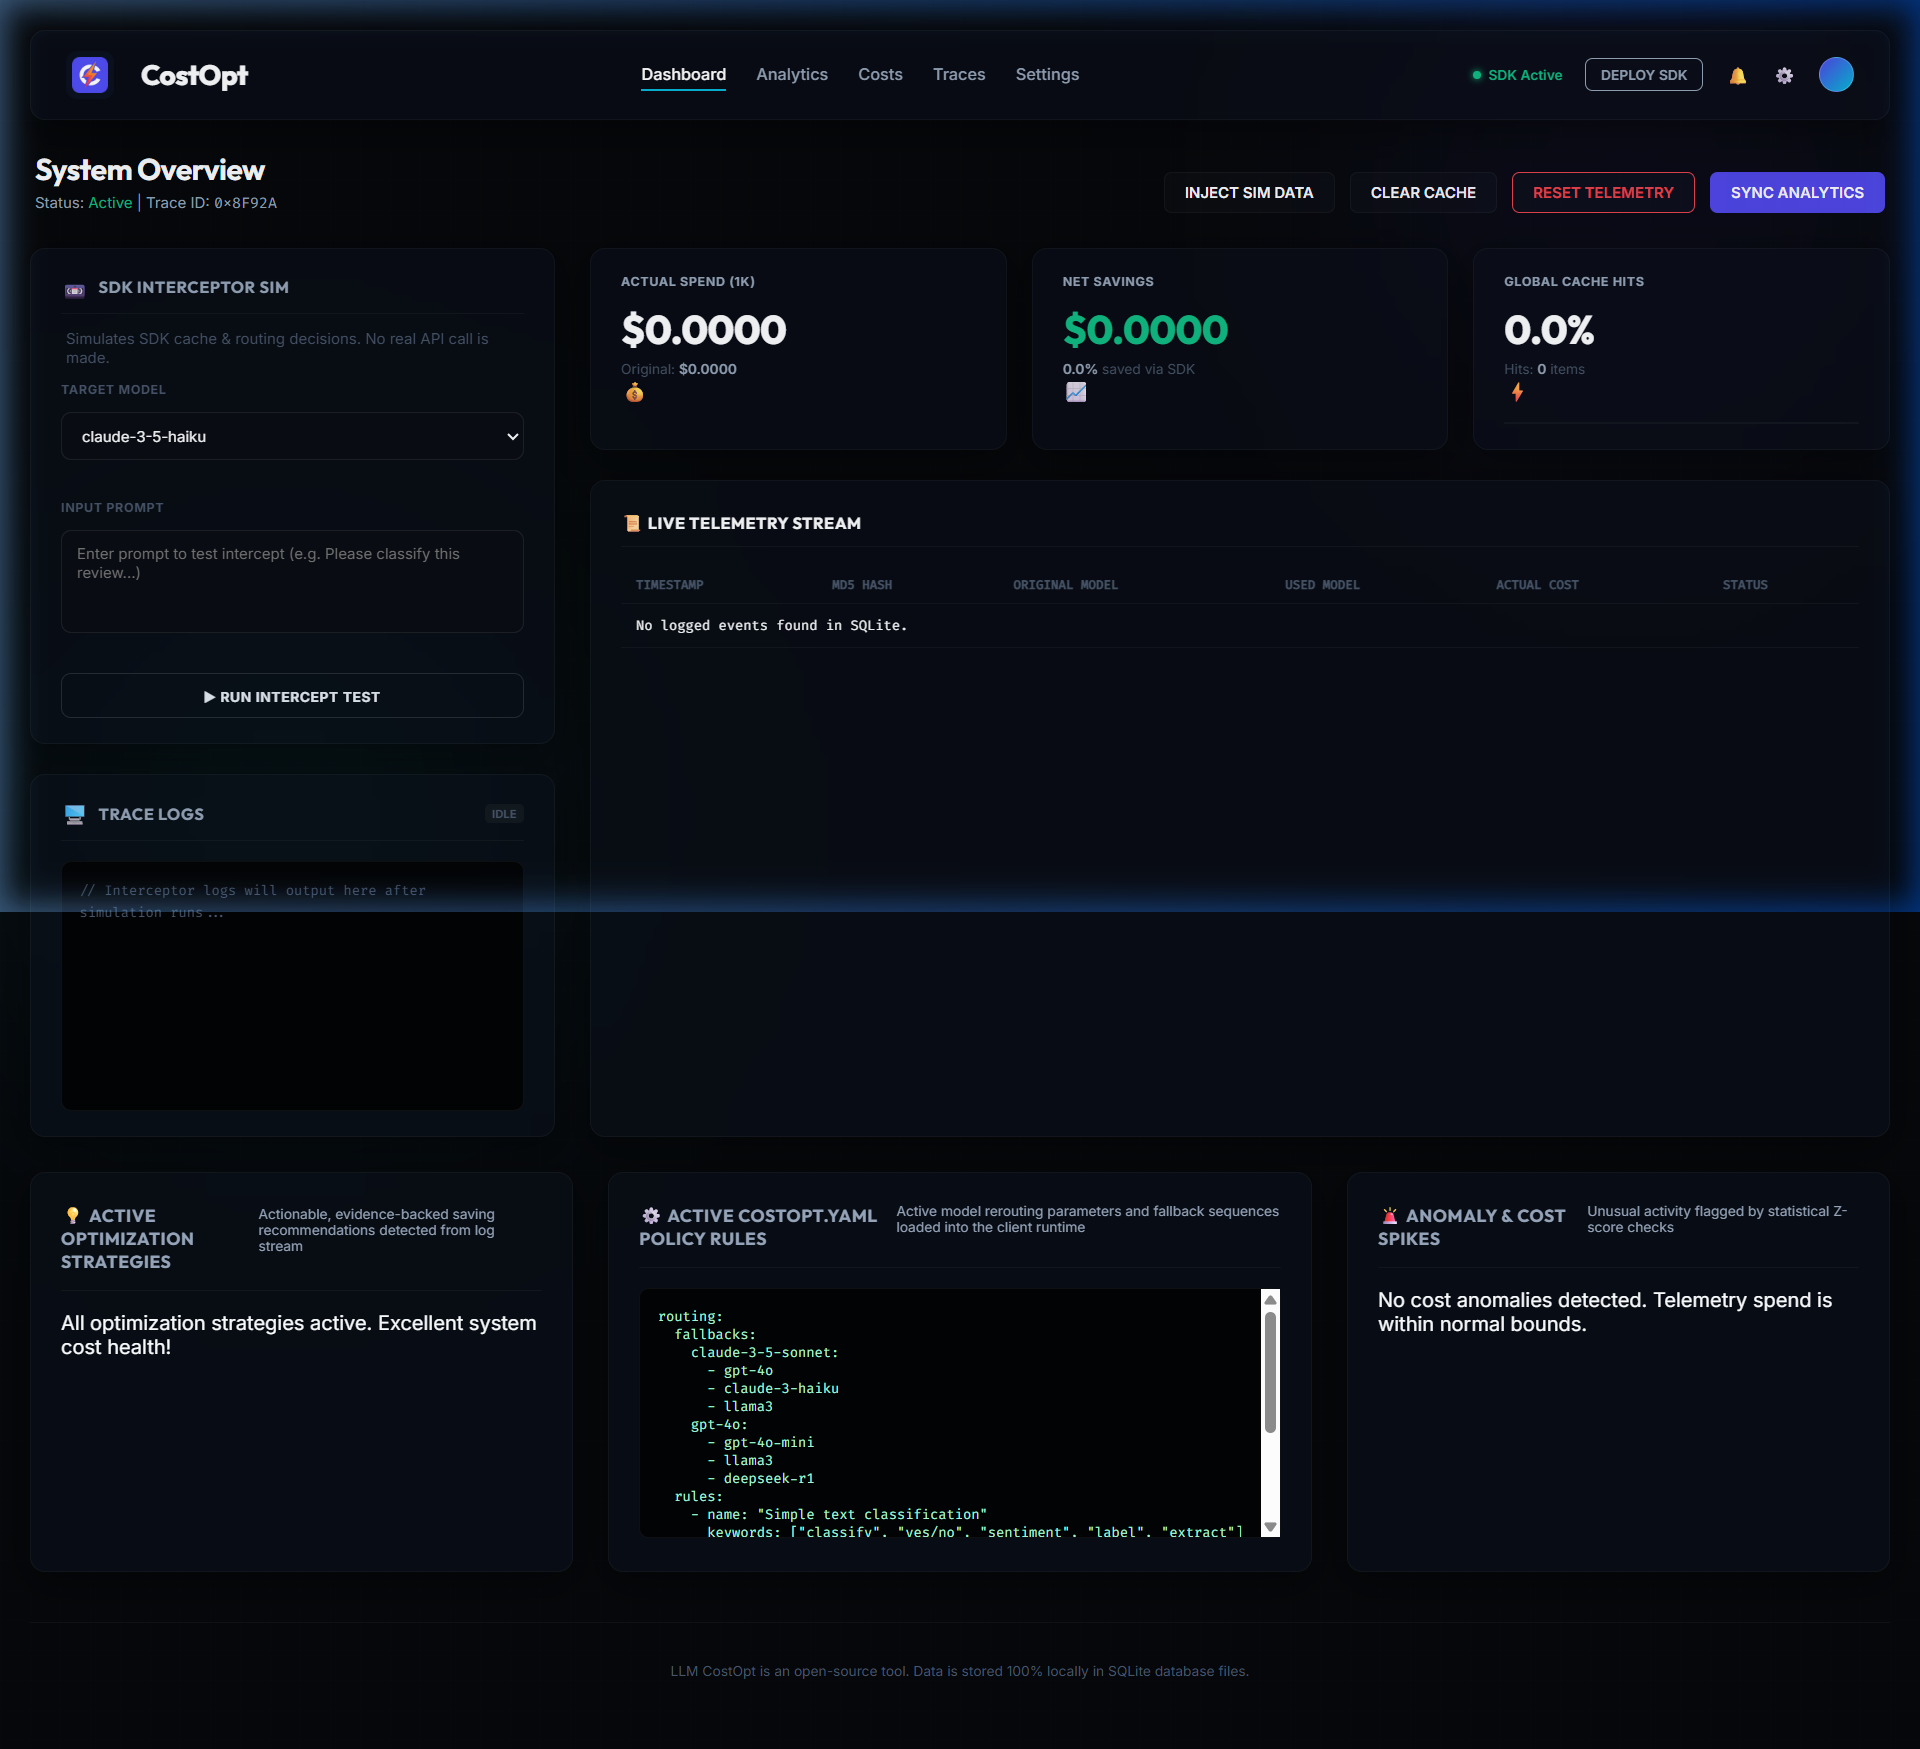
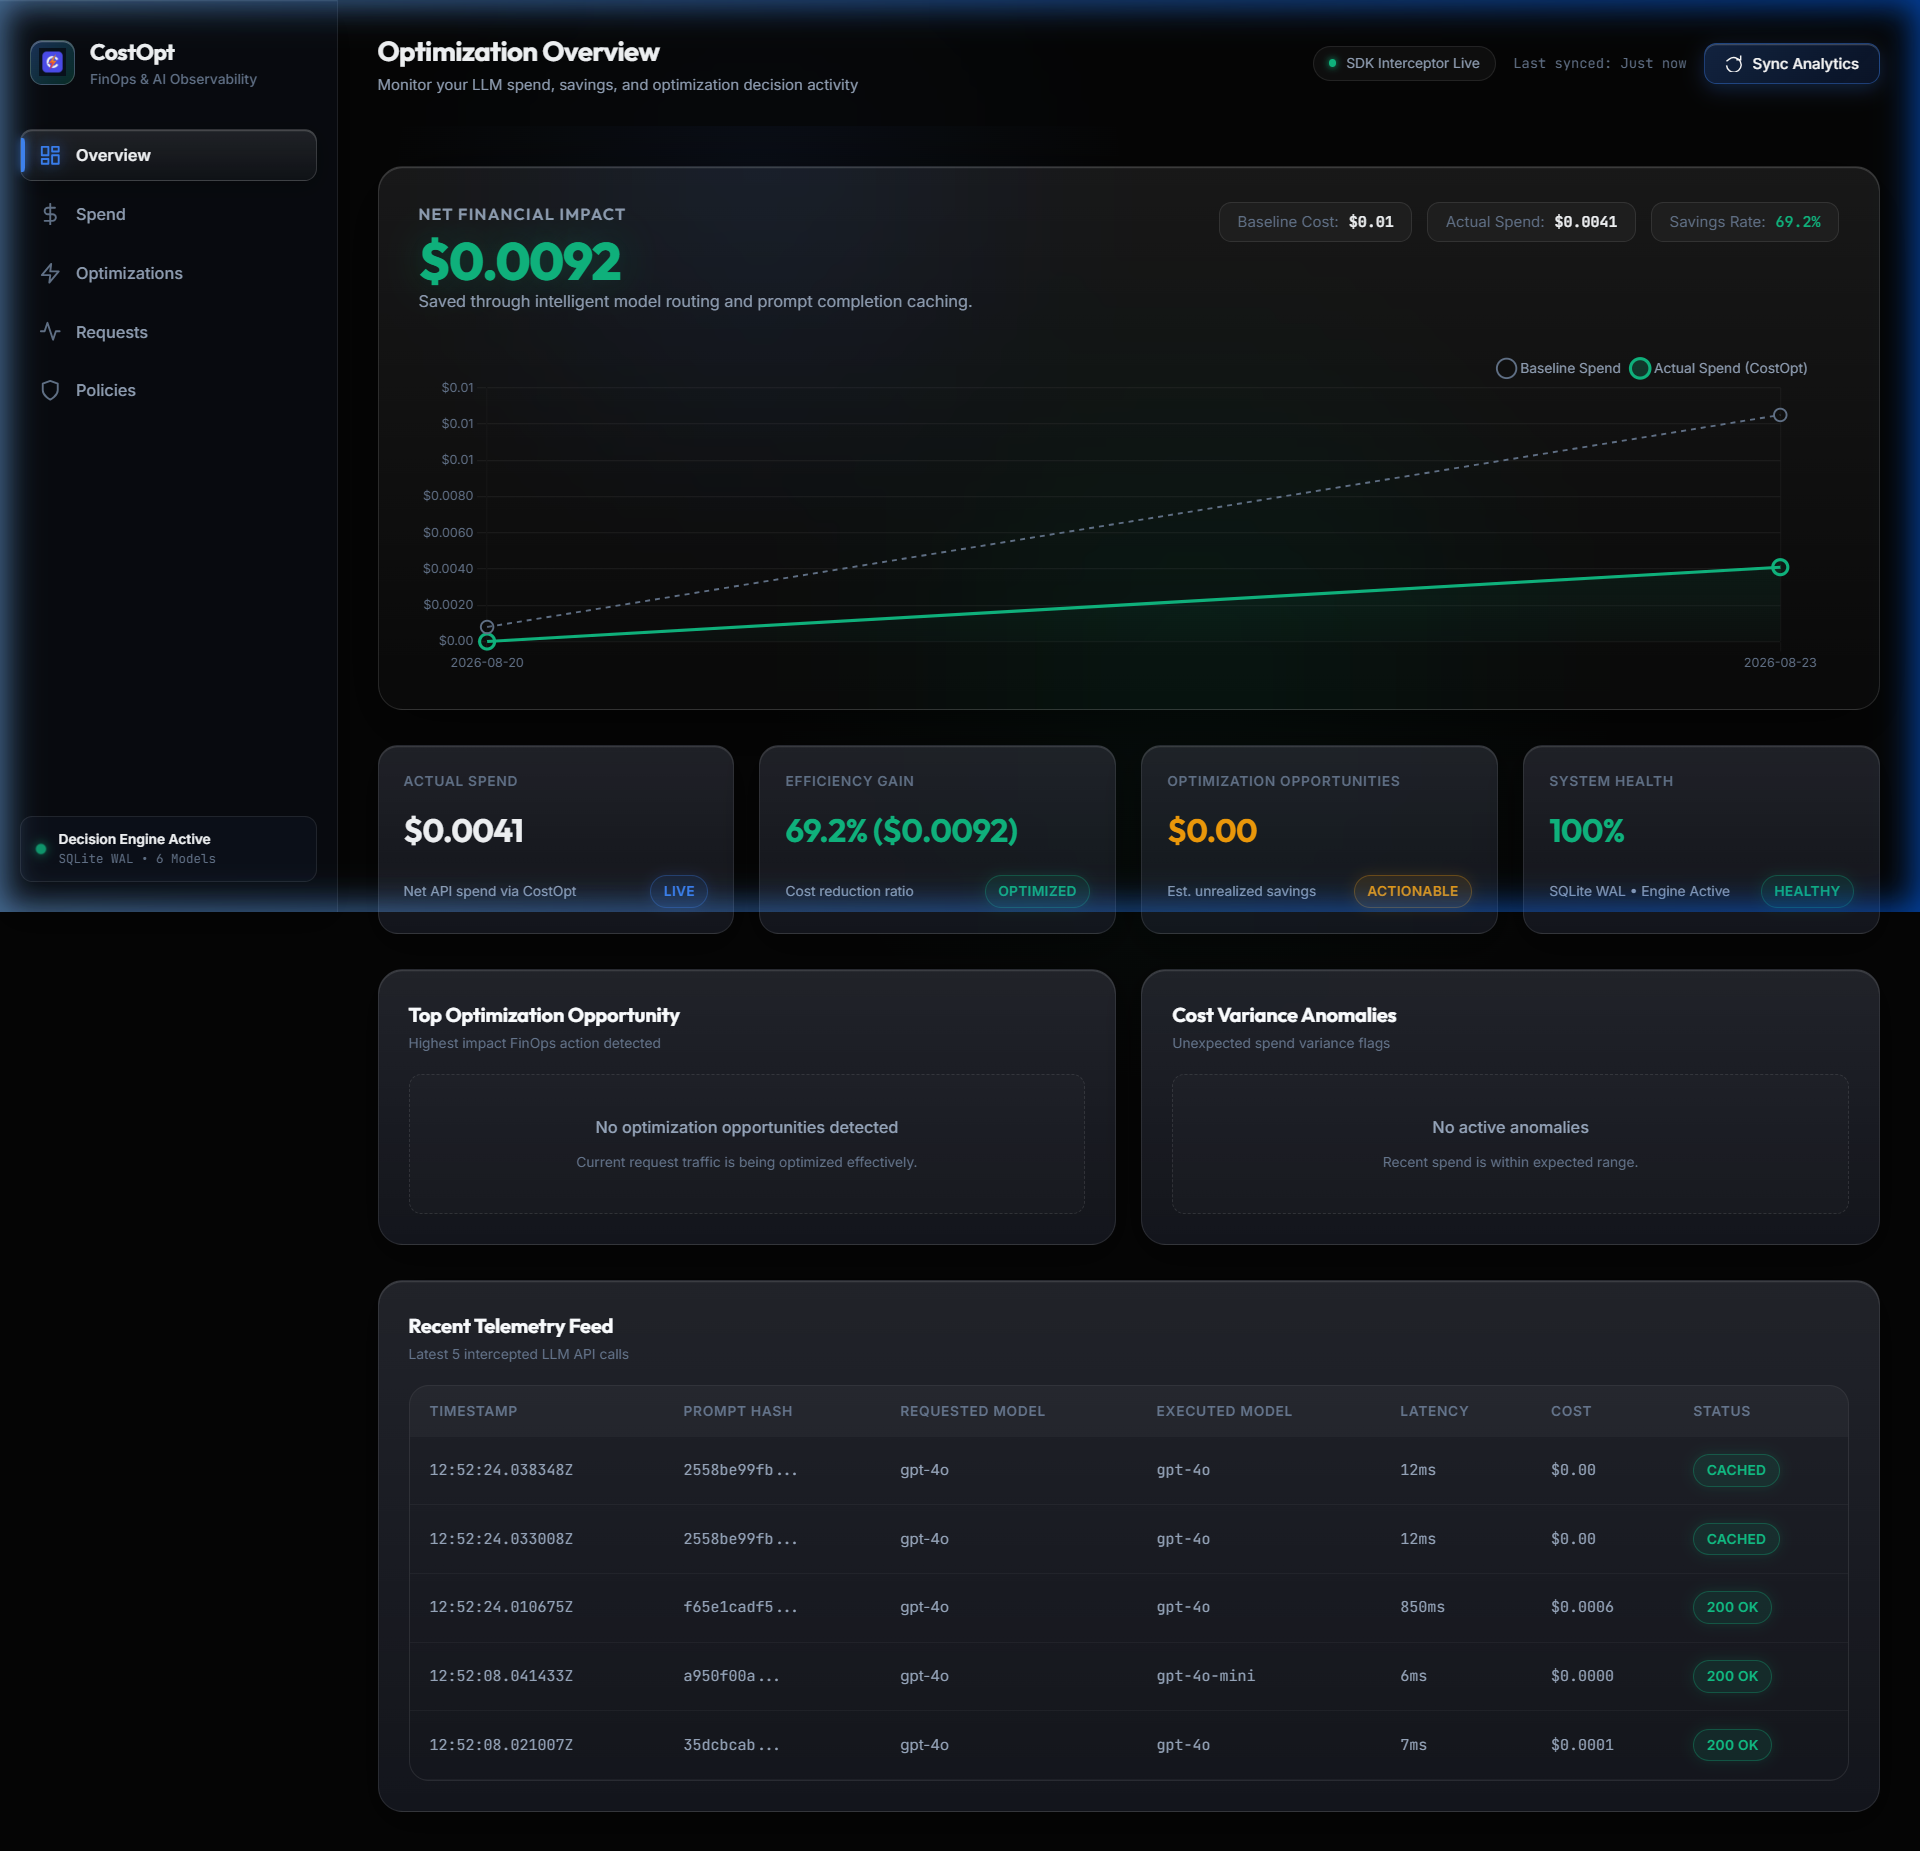
docs: add Zenix Refined Glass dashboard screenshots to README.md

diff --git a/README.md b/README.md
@@ -87,10 +87,15 @@ Every request is evaluated by the centralized `DecisionEngine` and assigned one 
 
 The built-in web console operates on `http://127.0.0.1:8000`, featuring a **Zenix Refined Glass** visual theme (`#050505` canvas, 35px backdrop blur, translucent borders, ambient glows, fixed left sidebar shell, and bento grid layout) across 5 primary navigation tabs:
 
+![CostOpt Zenix Refined Glass Overview](docs/images/dashboard_overview.png)
+
 1. **Overview**: Net Financial Impact Hero Glass Card (`$0.0023` / dynamic savings), smooth Chart.js spend trend area chart, bento metrics grid (Actual Spend, Efficiency Gain, Opportunities, System Health), top recommendation card, and live telemetry feed.
 2. **Spend**: Actual LLM spend hero card with baseline comparison, spend by model/provider bento distribution cards, and sortable model cost breakdown table.
 3. **Optimizations**: Dominant Net Savings hero card, Decision Strategy distribution (`Cache Hits`, `Model Reroutes`, `Direct Execution`), Task Classification breakdown, active optimization engines status cards, and real-time audit activity log.
 4. **Requests**: Request explorer table with prompt search, outcome filter badges (`CACHE HIT`, `REROUTE`, `DIRECT`), and **Request Inspection Drawer (`#global-modal`)** displaying step-by-step **Decision Intelligence Traces**.
+
+![CostOpt Decision Intelligence Trace Modal](docs/images/decision_trace_modal.png)
+
 5. **Policies**: Active policy rules visual cards (`Requested Model ➔ Target Model`), model routing map, live `costopt.yaml` policy editor with unsaved state detection, save/revert options, and destructive cache/telemetry management.
 
 ---
